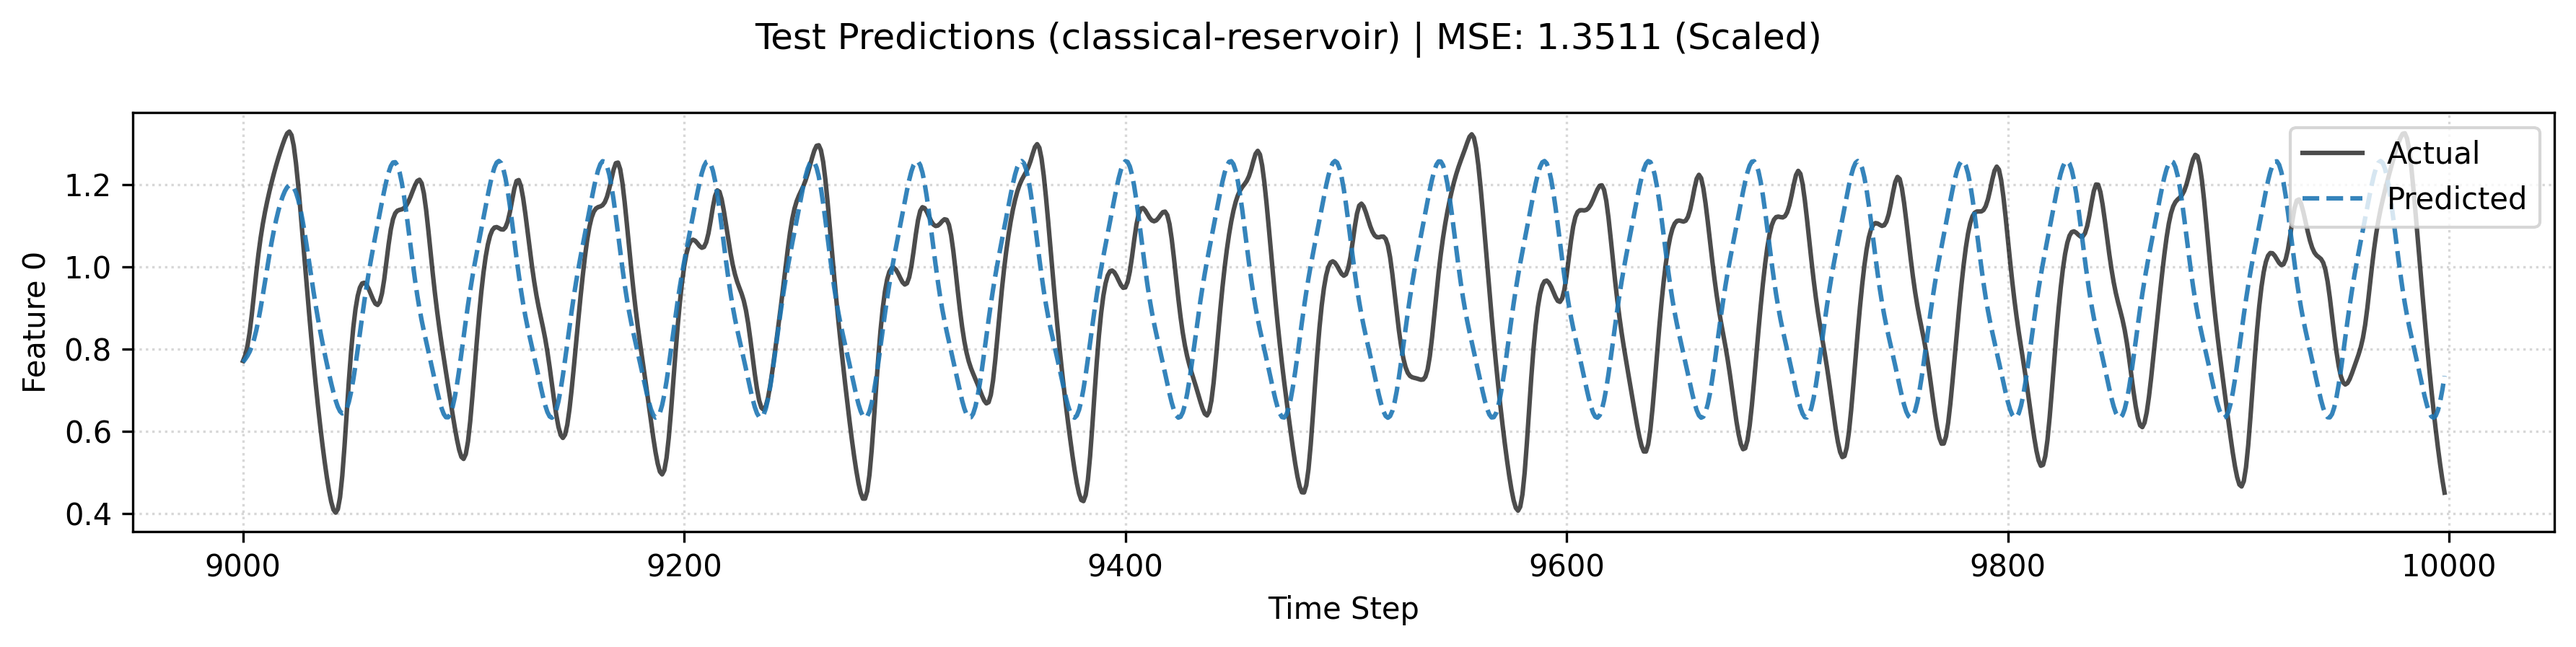
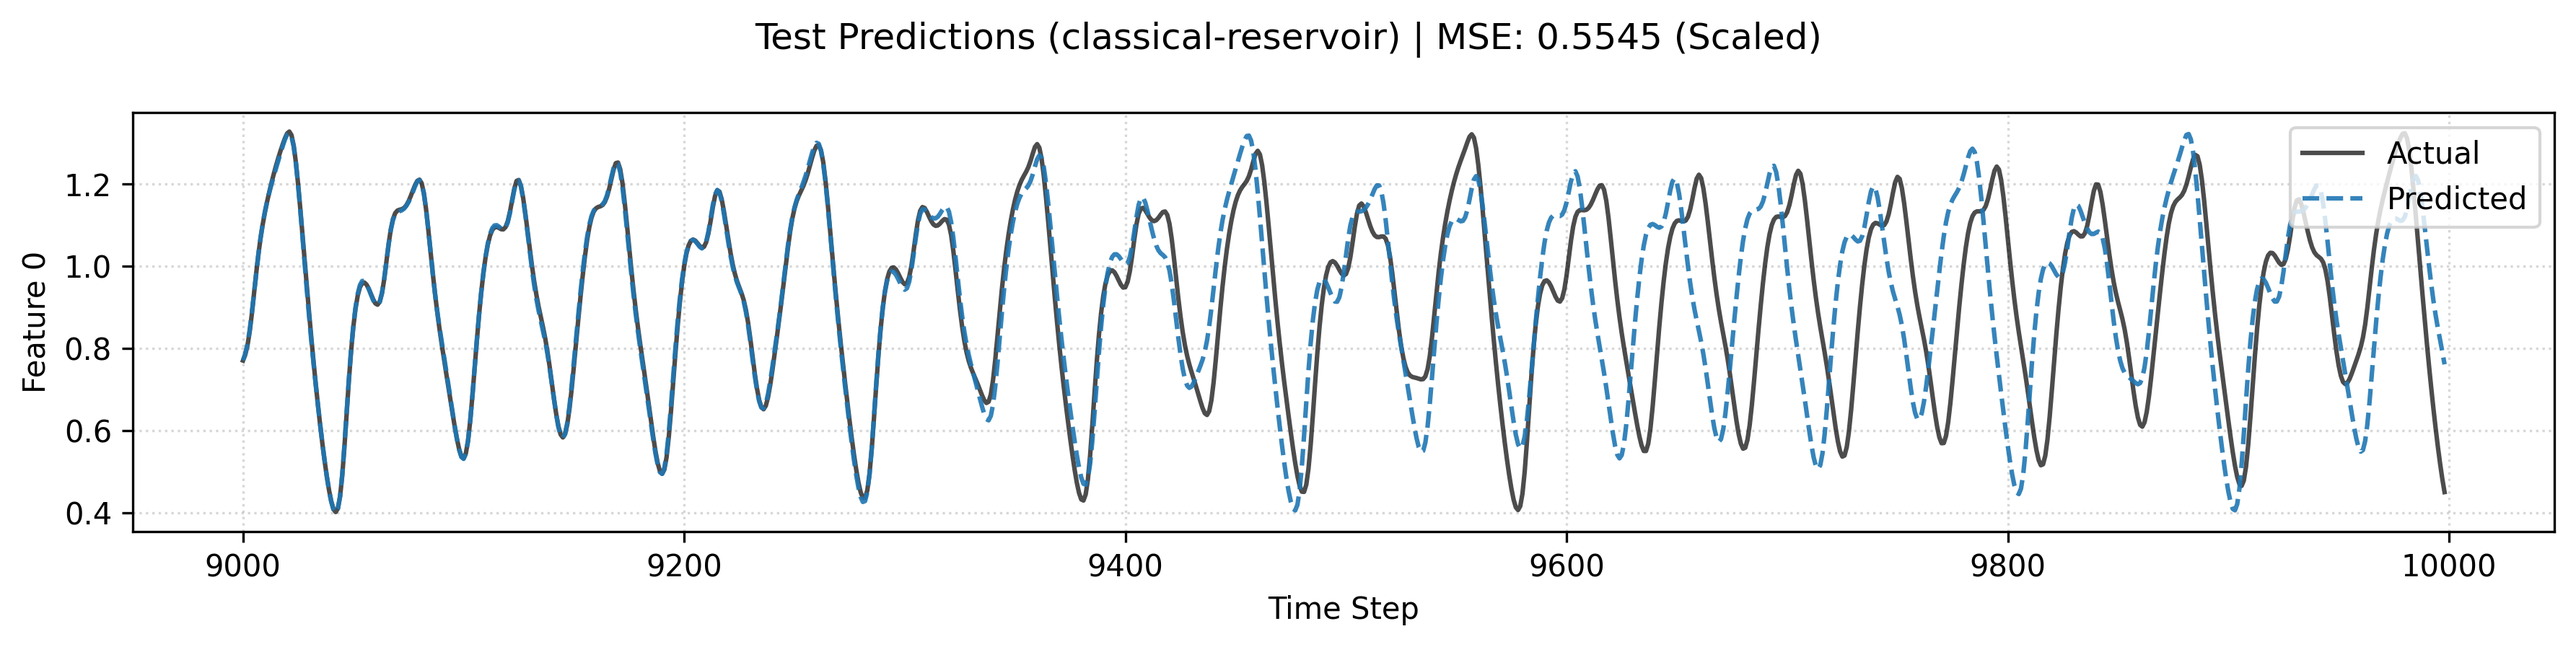
regression working

diff --git a/src/reservoir/pipelines/run.py b/src/reservoir/pipelines/run.py
@@ -261,8 +261,6 @@ def _process_frontend(config: PipelineConfig, raw_split: SplitDataset, dataset_m
     # Flatten後のサイズは Factory 側で input_shape から計算させる
     input_dim_for_factory = int(transformed_shape[-1])
 
-    print(f"    [Pipeline] Input Dim for Factory: {input_dim_for_factory} (Shape: {transformed_shape})")
-
     processed_split = SplitDataset(
         train_X=projected_train,
         train_y=data_split.train_y,

diff --git a/src/reservoir/models/presets.py b/src/reservoir/models/presets.py
@@ -81,7 +81,7 @@ TIME_CLASSICAL_RESERVOIR_PRESET = PipelineConfig(
         poly_degree=1,
     ),
     projection=ProjectionConfig(
-        n_units=400,
+        n_units=100,
         input_scale=0.2,
         input_connectivity=1.0,
         bias_scale=0.1,
